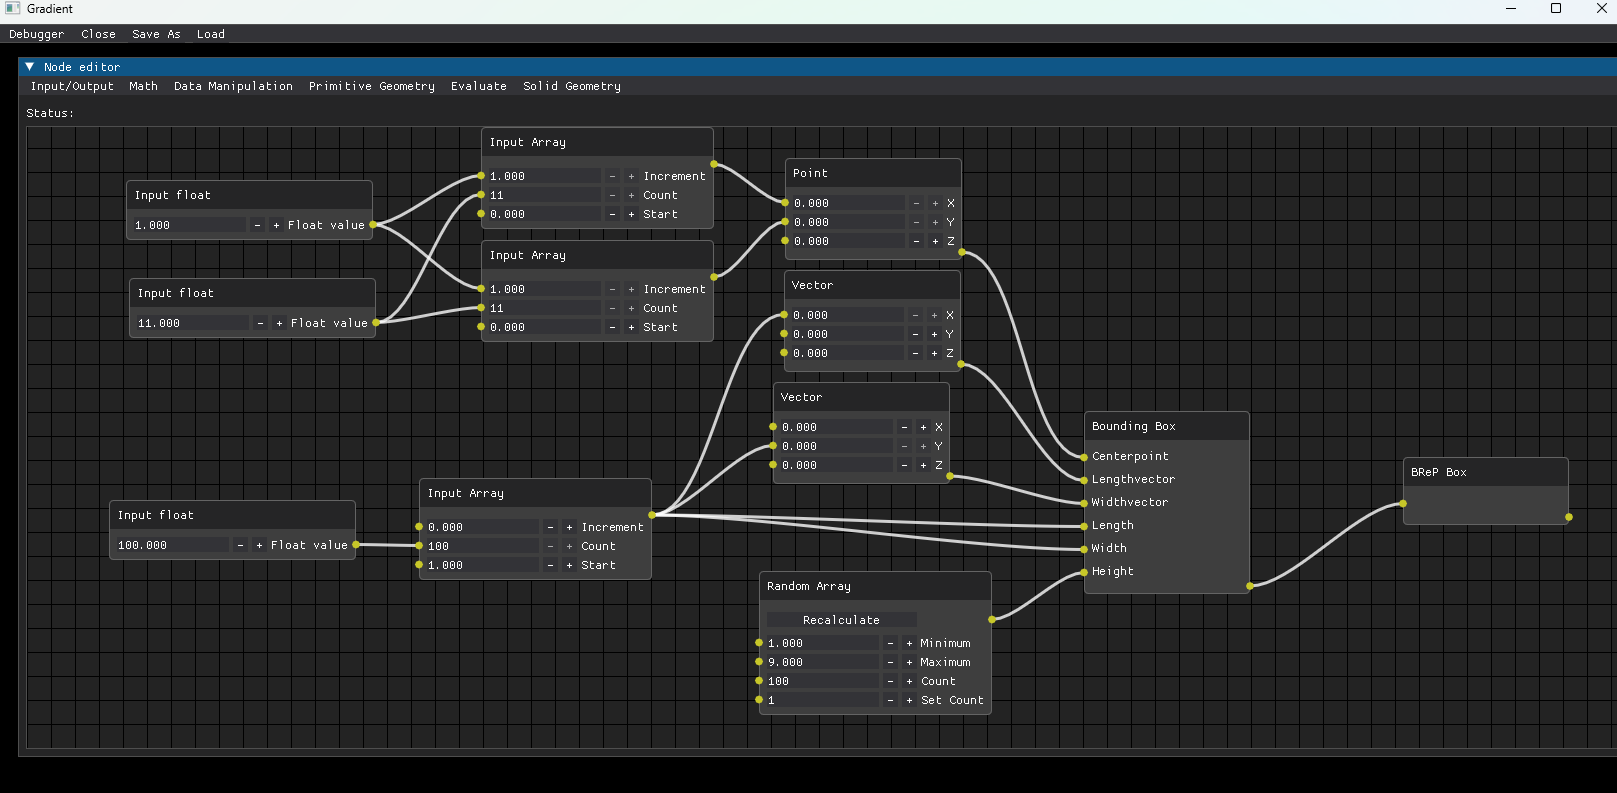
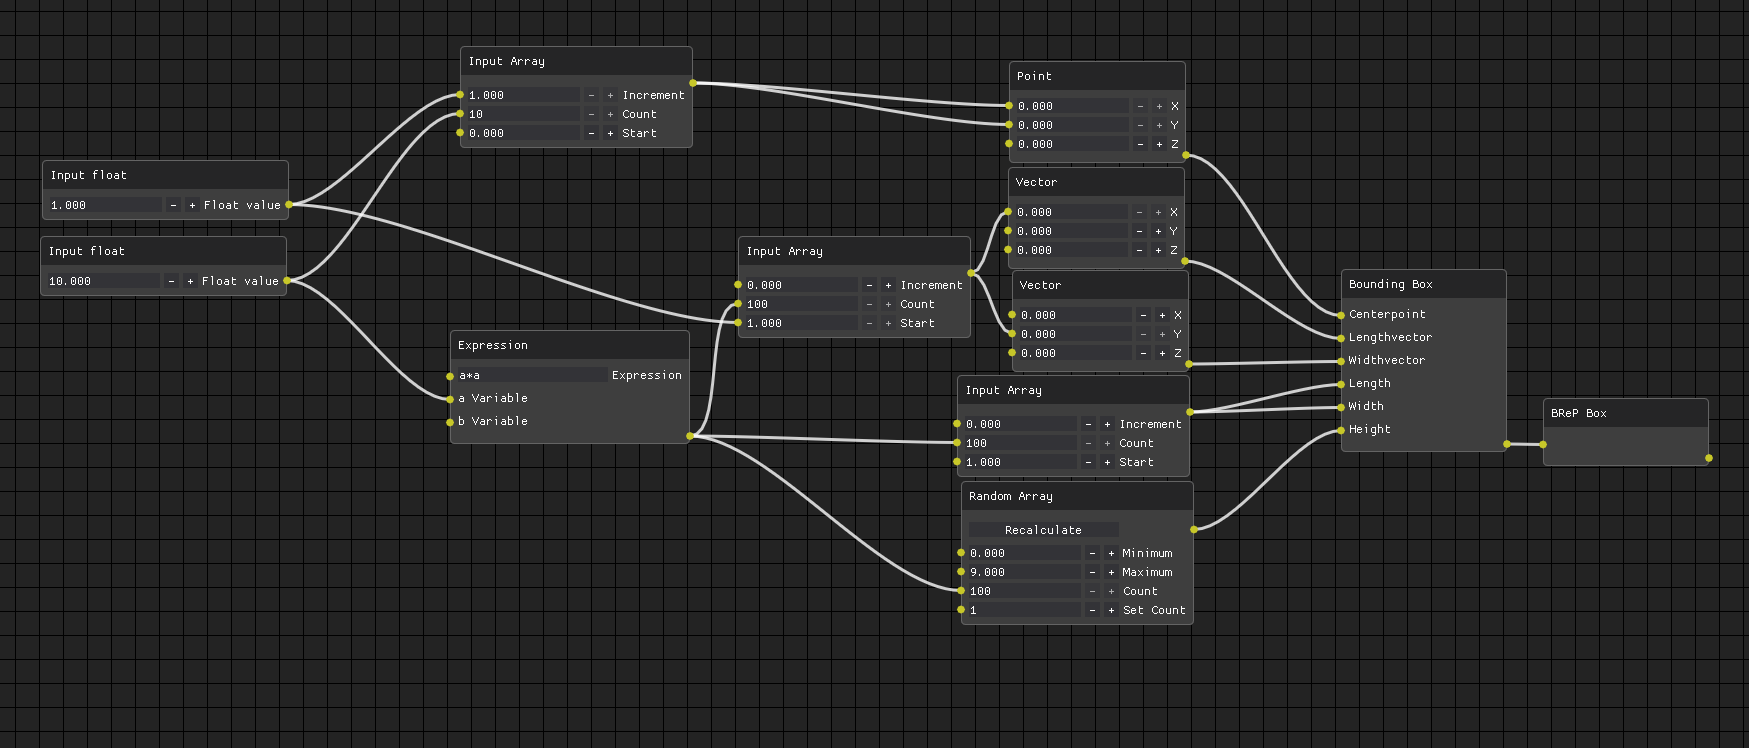
Edited compute section for standard and random arrays
Edited the compute portions of the standard and random arrays. Rand will now automatically convert floats to integer for set and count. Array was needing to have count set 1 higher than the actual length of the resulting array. This has now been fixed. Also updated the node gui screenshot for the readme.

diff --git a/lib/node_editor.py b/lib/node_editor.py
@@ -79,10 +79,10 @@ class NodeEditor:
                         pos=[50, 50],
                         menubar=True,
                         on_close=callback_close_window):
-            pass
             
             #Add a menu bar to the window
             with dpg.menu_bar(label="MenuBar"):
+                pass
                 
                 with dpg.menu(label="Input/Output"):
                     dpg.add_menu_item(tag="Menu_AddNode_InputFloat",
@@ -154,6 +154,7 @@ class NodeEditor:
 
             # Add node editor to the window
             with dpg.node_editor(tag="NodeEditor",
+                                 
                                  # Function call for updating all nodes if a new link is created
                                  callback=func_chain_update,
                                  # Function call for updating if a link is destroyed

diff --git a/lib/node_functions/node_array_random_func.py b/lib/node_functions/node_array_random_func.py
@@ -46,8 +46,8 @@ class ArrayRandomNodeFunction(BaseNodeFunction):
 
     def compute(self, sender=None, app_data=None):
 
-            _count = self.count.parameter[0]
-            _min = self.min.parameter[0]
+            _count = int(self.count.parameter[0])
+            _min = int(self.min.parameter[0])
             _max = self.max.parameter[0]
             _set = self.set.parameter[0]
 
@@ -63,13 +63,3 @@ class ArrayRandomNodeFunction(BaseNodeFunction):
                 self.array = np.random.uniform(_min, _max, _count)
 
             self.output.payload = self.array
-
-            # for link in self.links:
-
-            #     node_input = all_node_inputs[link.end]
-
-            #     node_input.update(self.array)
-
-            # if sender is not None: #Detect an update triggered from the UI.
-
-            #     self.broadcast_changes()

diff --git a/lib/node_functions/node_array_func.py b/lib/node_functions/node_array_func.py
@@ -52,6 +52,6 @@ class ArrayNodeFunction(BaseNodeFunction):
             
         else:
 
-            self.array = np.arange(start = _start, stop = _start + _count * _increment - 1, step = _increment)
+            self.array = np.arange(start = _start, stop = _start + _count * _increment, step = _increment)
 
         self.output.payload = self.array
